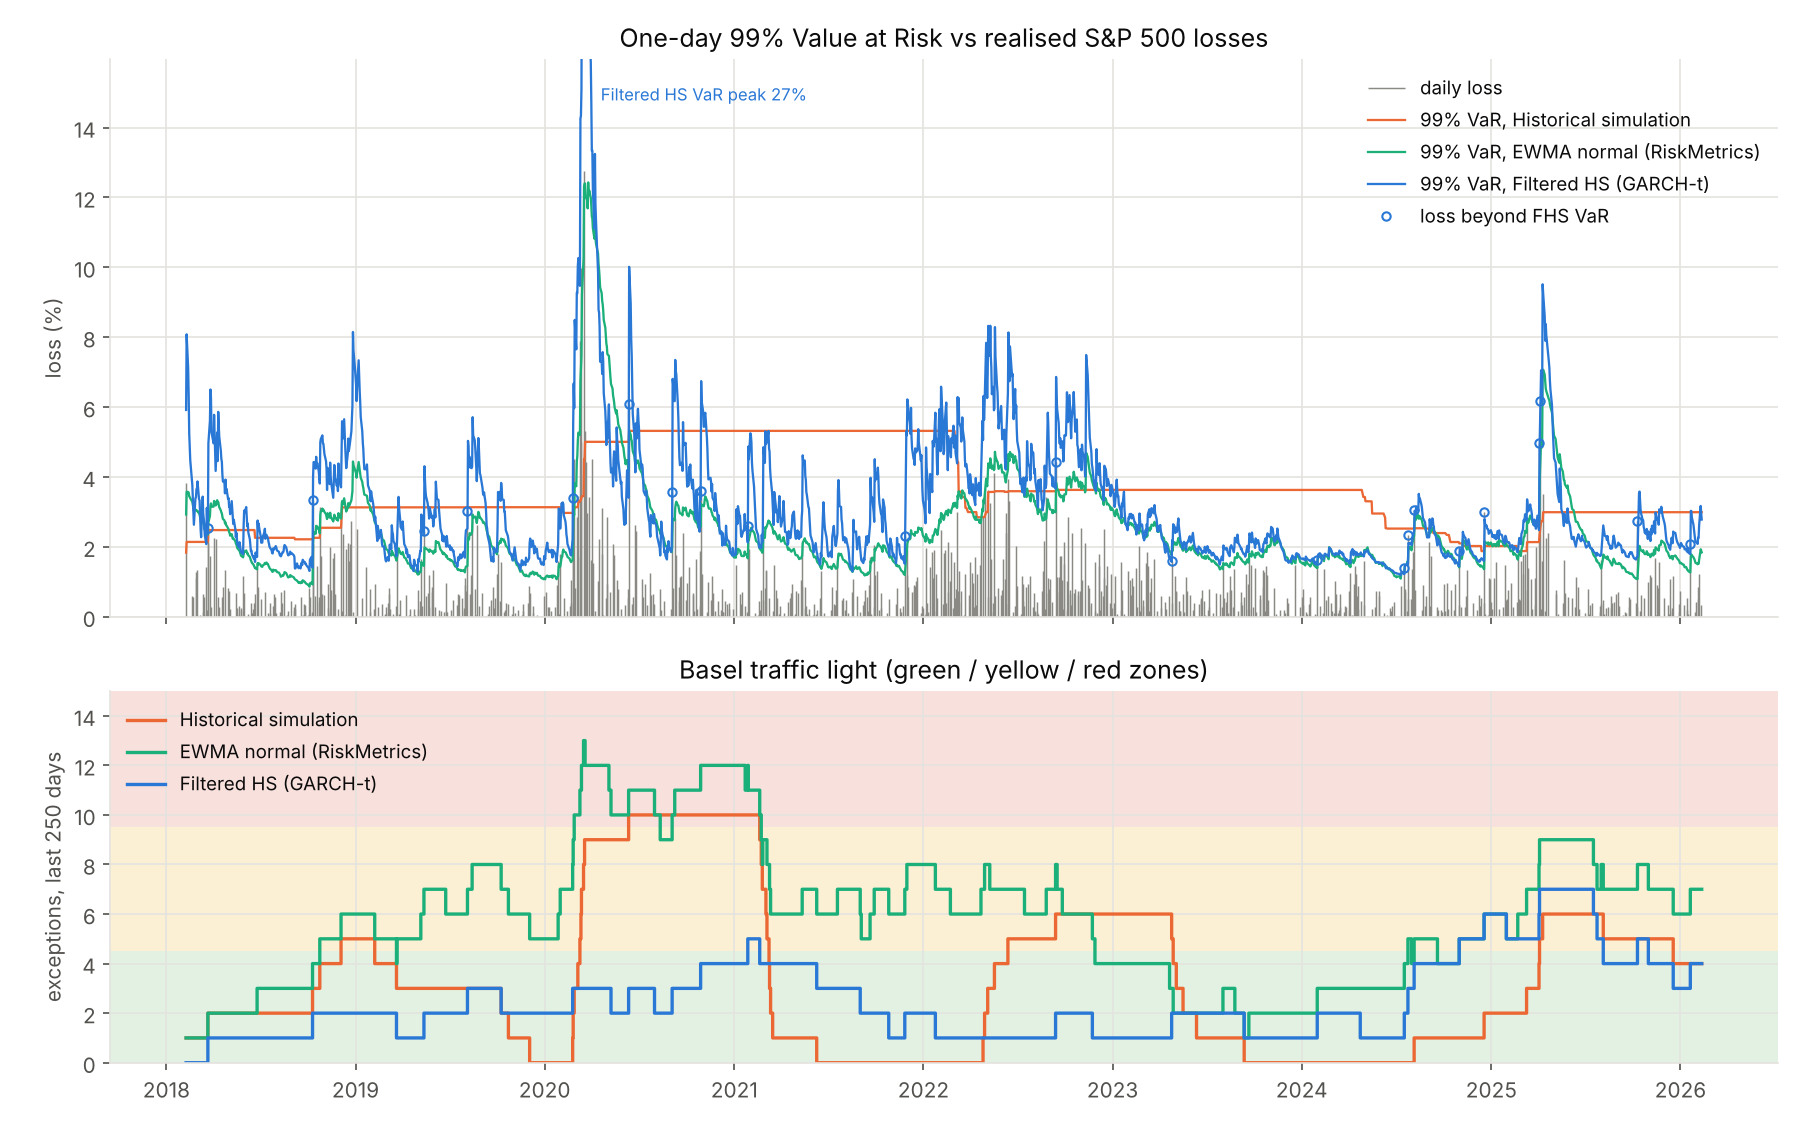
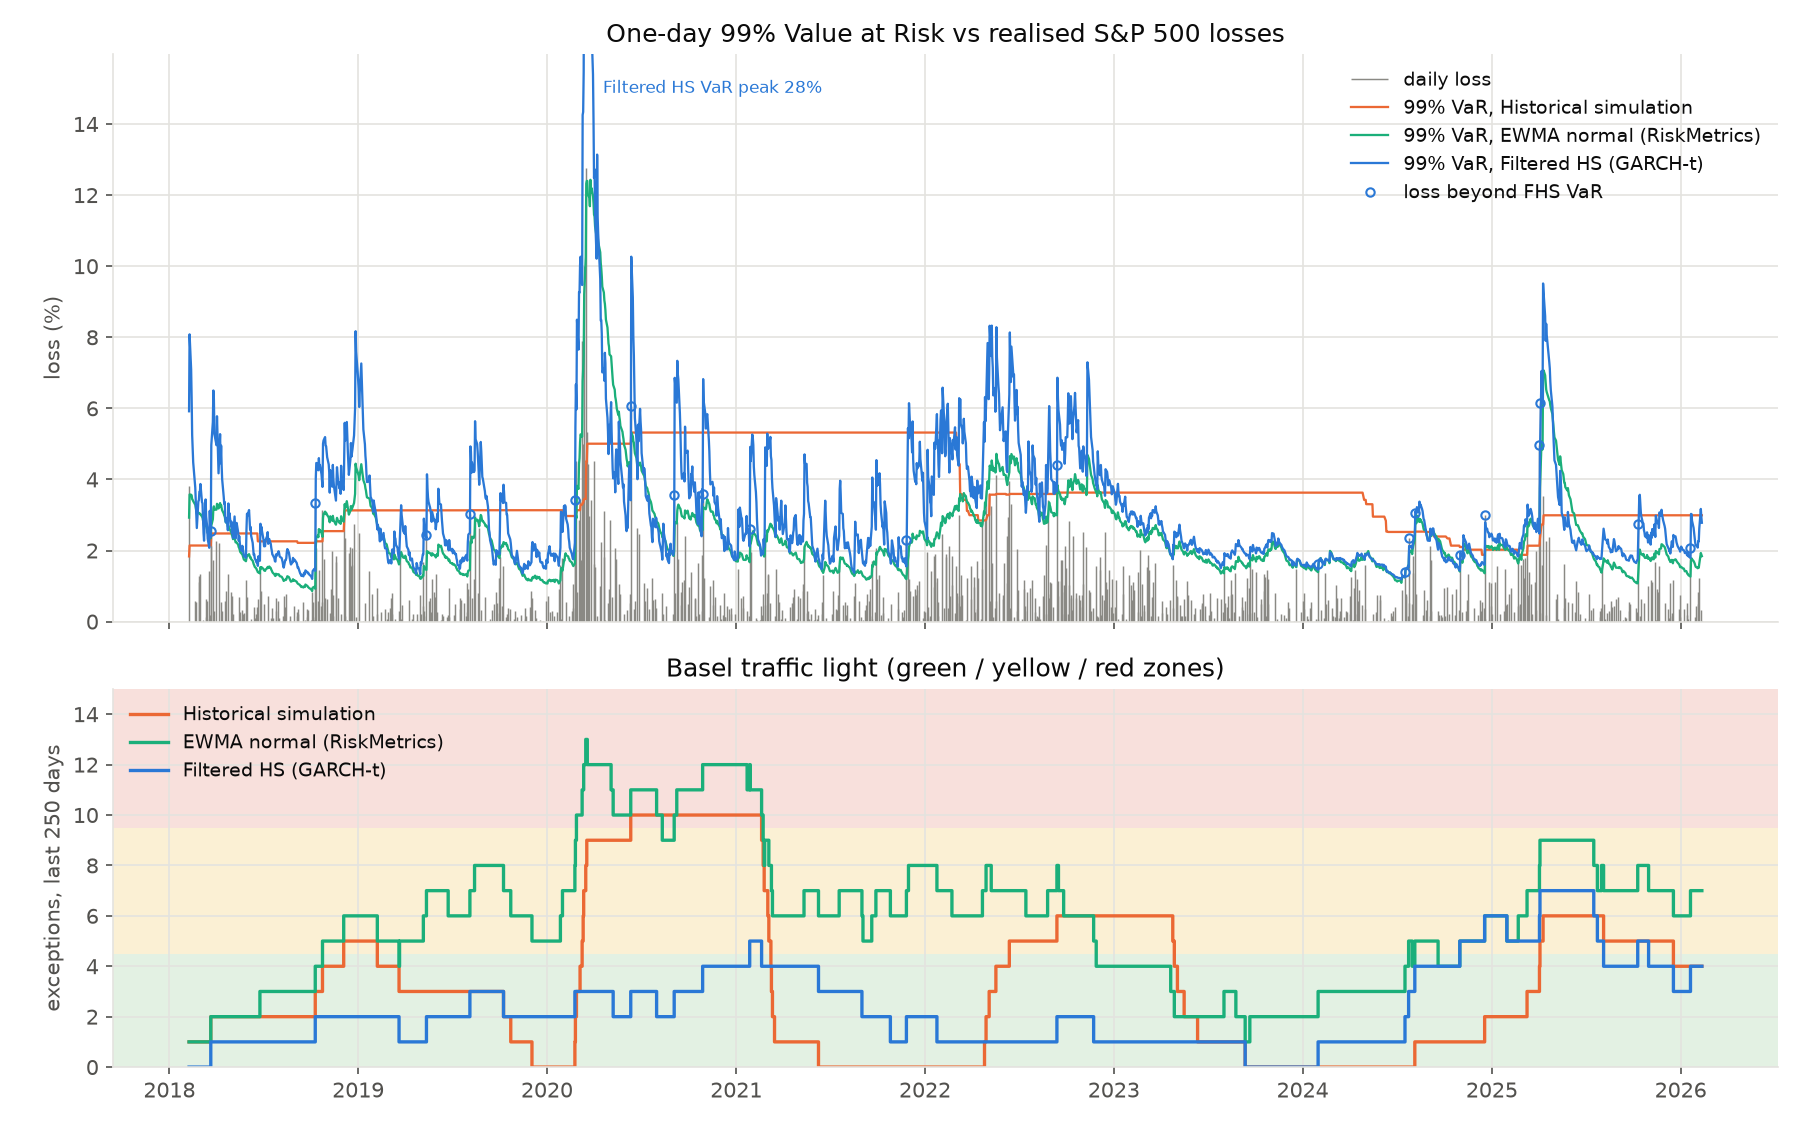
Fix GARCH-t MLE convergence; add 1990-2026 long-history backtest
The penalty wall at a+b = 0.999 stalled L-BFGS-B: 65 of 96 FRED refits
ended >0.1 log-lik short of the optimum (worst 6.2), so FHS results
differed between machines. Fit persistence and alpha share as box-bounded
parameters on standardized returns; every refit now within 0.03. New test
checks the fit against a long Nelder-Mead search on real windows.

FRED 2018-2026 FHS: 21 exceptions, Kupiec 0.847, Christoffersen 0.216,
Z2 p 0.122 (still passes). Yahoo ^GSPC 1991-2026, 8,763 days: HS and EWMA
fail; FHS passes Kupiec (0.194) and Z2 (0.077) but fails Christoffersen
(0.007). Chart legend moves left when a clipped VaR peak is on the right.

diff --git a/varbt/core.py b/varbt/core.py
@@ -28,22 +28,23 @@ def garch_variance(e, omega, a, b, v0):
 
 
 def garch_fit(r):
-    """MLE of r = mu + sigma z, z ~ unit-variance Student-t. Returns (mu, omega, a, b, nu)."""
-    v0 = r.var()
+    """MLE of r = mu + sigma z, z ~ unit-variance Student-t. Returns (mu, omega, a, b, nu).
+    Fitted on r / sd with a = pers * share, b = pers * (1 - share), so stationarity is a plain box
+    bound: a penalty wall at a + b = 0.999 used to stall L-BFGS-B up to 6 log-lik units short (measured)."""
+    sd = r.std()
+    y = r / sd
 
     def nll(p):
-        mu, lw, a, b, nu = p
-        if a + b >= 0.999:
-            return 1e10
-        e = r - mu
-        s2 = garch_variance(e, np.exp(lw), a, b, v0)[:-1]
+        mu, lw, pers, share, nu = p
+        e = y - mu
+        s2 = garch_variance(e, np.exp(lw), pers * share, pers * (1 - share), 1.0)[:-1]
         k = np.sqrt(nu / (nu - 2))
         return -np.sum(student_t.logpdf(e / np.sqrt(s2) * k, nu) + np.log(k) - 0.5 * np.log(s2))
 
-    x0 = [r.mean(), np.log(v0 * 0.05), 0.08, 0.88, 6.0]
-    bounds = [(-0.01, 0.01), (np.log(v0) - 12, np.log(v0)), (1e-4, 0.5), (0.0, 0.998), (2.1, 50)]
-    p = minimize(nll, x0, method="L-BFGS-B", bounds=bounds).x
-    return p[0], np.exp(p[1]), p[2], p[3], p[4]
+    x0 = [y.mean(), np.log(0.05), 0.96, 0.08, 6.0]
+    bounds = [(-0.01 / sd, 0.01 / sd), (-12, 0), (0.0, 0.998), (1e-4, 1.0), (2.1, 50)]
+    mu, lw, pers, share, nu = minimize(nll, x0, method="L-BFGS-B", bounds=bounds).x
+    return mu * sd, np.exp(lw) * sd ** 2, pers * share, pers * (1 - share), nu
 
 
 # ---------- rolling forecasts ----------

diff --git a/tests/test_varbt.py b/tests/test_varbt.py
@@ -29,6 +29,32 @@ def test_garch_mle_recovers_parameters():
         assert 3.5 < nu < 7.5, nu
 
 
+def test_garch_mle_reaches_optimum_on_real_windows():
+    # Windows where a+b sits near 0.999: the old penalty-wall fit stalled 3-6 log-lik units short.
+    # Known answer: a long Nelder-Mead search on the textbook likelihood can't beat garch_fit.
+    from scipy.optimize import minimize
+    from scipy.stats import t as student_t
+    r = load_csv(DATA).values
+
+    def nll(p, x):
+        mu, lw, a, b, nu = p
+        if a < 0 or b < 0 or a + b >= 0.999 or not 2.1 <= nu <= 50:
+            return 1e10
+        e = x - mu
+        s2 = garch_variance(e, np.exp(lw), a, b, x.var())[:-1]
+        k = np.sqrt(nu / (nu - 2))
+        return -np.sum(student_t.logpdf(e / np.sqrt(s2) * k, nu) + np.log(k) - 0.5 * np.log(s2))
+
+    for t0 in (1949, 1991, 2033):
+        x = r[t0 - 500:t0]
+        mu, omega, a, b, nu = garch_fit(x)
+        p = [mu, np.log(omega), a, b, nu]
+        best = min(minimize(nll, x0, args=(x,), method="Nelder-Mead",
+                            options={"maxiter": 20000, "xatol": 1e-9, "fatol": 1e-11}).fun
+                   for x0 in (p, [x.mean(), np.log(x.var() * 0.02), 0.15, 0.83, 5.0]))
+        assert nll(p, x) - best < 0.05, (t0, nll(p, x), best)
+
+
 def test_normal_var_es_match_basel_constants():
     # Basel's FRTB swap of 99% VaR for 97.5% ES: under normality 2.326 sigma vs 2.338 sigma.
     f = forecast(np.random.default_rng(0).standard_normal(600) * 0.01, model="ewma")

diff --git a/varbt/__main__.py b/varbt/__main__.py
@@ -45,13 +45,15 @@ def plot(r, res, out):
     fb = res["fhs"][1]["hits"]
     a1.plot(t[fb], loss[fb], "o", ms=4, mfc="none", mec=COLOR["fhs"], label="loss beyond FHS VaR")
     top = loss.max() * 1.25
+    peak_right = False
     for m, (f, b) in res.items():  # label any VaR peak cut off by the axis
         i = int(np.argmax(f["var99"]))
         if f["var99"][i] * 100 > top:
             a1.annotate(f"{MODELS[m].split(' (')[0]} VaR peak {f['var99'][i] * 100:.0f}%", (t[i], top * 0.97),
                         xytext=(8, -4), textcoords="offset points", fontsize=8, color=COLOR[m], va="top")
+            peak_right |= i > len(t) / 2
     a1.set(ylabel="loss (%)", title="One-day 99% Value at Risk vs realised S&P 500 losses", ylim=(0, top))
-    a1.legend(frameon=False, fontsize=9, loc="upper right")
+    a1.legend(frameon=False, fontsize=9, loc="upper left" if peak_right else "upper right")
 
     g, y = traffic_light_limits()
     a2.axhspan(-0.5, g + 0.5, color="#e3f1e3", lw=0)

diff --git a/README.md b/README.md
@@ -8,13 +8,29 @@
 |---|---|---|---|---|---|---|
 | Historical simulation | 27 | 0.144 | **0.004** | **10, red** (to 2020-06) | **0.000** | 3.59% |
 | EWMA normal (RiskMetrics) | **50** | **0.000** | 0.504 | **13, red** (to 2020-03) | **0.000** | 2.47% |
-| Filtered HS (GARCH-t) | 22 | 0.680 | 0.239 | 7, yellow (to 2025-04) | 0.174 | 3.18% |
+| Filtered HS (GARCH-t) | 21 | 0.847 | 0.216 | 7, yellow (to 2025-04) | 0.122 | 3.15% |
 
 *p < 0.05 rejects the model. 2,013 trading days, 2018-02-08 to 2026-02-11.*
 
 - **Historical simulation** gets the overall count right, which is why banks like it, but its exceptions arrive in clusters (Christoffersen rejects). It reacted to COVID only after the losses had happened and reached the Basel **red zone**.
 - **EWMA normal** reacts fast, so its exceptions don't cluster, but normal tails are far too thin: **2.5×** the expected exceptions.
-- **Filtered historical simulation** passes every test. It also holds **less** risk on average than historical simulation (3.18% vs 3.59%): it raises VaR when volatility rises and lowers it in calm markets, instead of carrying a 2-year-old crash for 2 years.
+- **Filtered historical simulation** passes every test here. It also holds **less** risk on average than historical simulation (3.15% vs 3.59%): it raises VaR when volatility rises and lowers it in calm markets, instead of carrying a 2-year-old crash for 2 years. Over 1991–2026 it fails the clustering test ([below](#long-history-1990today)).
+
+## Long history (1990–today)
+
+`python -m varbt --ticker ^GSPC` (Yahoo Finance, run 2026-10-15): 8,763 backtest days, 1991-12-24 to 2026-10-14, covering 1997–98, 2000–02, **2008**, 2011, 2020 and 2025.
+
+![VaR backtest on the S&P 500, 1991-2026](var_1990.png)
+
+| Model | 99% VaR exceptions (expected 87.6) | Kupiec p | Christoffersen p | Worst 250 days (Basel) | ES Z2 p | Average VaR |
+|---|---|---|---|---|---|---|
+| Historical simulation | 114 | **0.007** | **0.000** | **18, red** (to 2008-12) | **0.000** | 3.05% |
+| EWMA normal (RiskMetrics) | **189** | **0.000** | **0.004** | **13, red** (to 2007-11) | **0.000** | 2.30% |
+| Filtered HS (GARCH-t) | 100 | 0.194 | **0.007** | 8, yellow (to 2007-11) | 0.077 | 2.74% |
+
+- **HS and EWMA still fail.** HS now fails the exception count too, and 2008 puts it at 18 exceptions in 250 days, deep in the red zone. EWMA has 2.2× the expected exceptions and now also fails Christoffersen.
+- **FHS fails Christoffersen.** It gets the count right, never reaches red, and its ES passes, but it has 5 back-to-back exceptions (1993, 1994, 2015, 2018, 2025) where about 1 is expected. At 8,763 days the test is no longer oversized (see Validation), so this is a real rejection, consistent with the GARCH filter reacting a day late to sudden volatility jumps. The original optimizer (see Validation) fails it too (p = 0.039).
+- In 2018–2026 FHS had only 1 back-to-back exception. Eight years is too short to see the clustering that 35 years shows.
 
 ## Method
 
@@ -37,12 +53,13 @@
 
 ## Validation
 
-`python tests/test_varbt.py` (or `python -m pytest`), 10 tests, about a minute. Every test checks against a known answer.
+`python tests/test_varbt.py` (or `python -m pytest`), 11 tests, about 25 seconds (longer on the first, cold run). Every test checks against a known answer.
 
 | Check | Result |
 |---|---|
 | GARCH variance filter vs plain recursion | equal to 1e-18 |
 | GARCH-t MLE on simulated data (true α 0.10, β 0.88, ν 5) | recovers α+β within 0.015, ν within 3.5–7.5 |
+| GARCH-t MLE on real windows with α+β near 1 | within 0.05 log-lik of a long Nelder-Mead search |
 | Normal 97.5% ES vs 99% VaR | 2.338σ vs 2.326σ, the Basel FRTB equivalence |
 | Kupiec statistic vs binomial likelihood ratio | exact |
 | Test size under a correct model | Kupiec ≈ 5.7%, Christoffersen ≈ 5%, Z2 ≈ 5.7% (target 5%) |
@@ -50,9 +67,11 @@
 | Basel zones from the binomial | green ≤ 4, red ≥ 10, matching the 1996 Basel table |
 | **Known truth:** data simulated from GARCH-t, 6 seeds | FHS passes all tests on all 6; EWMA fails Kupiec on ≥ 4; HS fails Christoffersen on ≥ 3 |
 | **Real data:** S&P 500 2018–2026 | results in the table above |
+| **Real data:** S&P 500 1991–2026 (Yahoo) | [Long history](#long-history-1990today) |
 
-Two findings from building it:
+Three findings from building it:
 - **Quantile rule matters.** NumPy's default quantile puts the 1% point of 500 scenarios about 20% too far into the body: on simulated data with a known answer, historical models broke VaR 36 times instead of ~25. The engine uses the k/(n+1) plotting position (`method="weibull"`), which fixed most of the gap.
+- **The GARCH fit must reach the optimum.** The first version enforced α+β < 0.999 with a penalty wall. L-BFGS-B stalled against it: on the FRED data 65 of 96 refits ended more than 0.1 log-likelihood units short of the optimum (worst 6.2), and the same code gave different FHS results on two machines (ES Z2 p 0.174 vs 0.122). Fitting persistence α+β and α's share of it as box-bounded parameters on standardized returns brings every refit within 0.03 units.
 - **Christoffersen's test is oversized in short samples:** 8% rejections instead of 5% at 1,000 days with 5% hits, converging to 5% by 5,000 days (measured). Treat borderline p-values with care.
 
 ## Run
@@ -68,8 +87,8 @@ Prints the table above and saves `var.png`.
 ## Limits
 
 - **One asset, long only.** A portfolio needs a joint model (e.g. filtered HS on several assets with a correlation model).
-- **FHS overreacts after shocks.** Its 99% VaR peaked at 27% in March 2020, when the worst daily loss was 12.8%. That conservatism is part of why it passes; a desk would also judge it on how much capital it ties up during a crisis.
-- **The bundled data has no 2008.** FRED publishes 10 years of the S&P 500 index for free. `--ticker ^GSPC` adds 1990 onward, including 2008.
+- **FHS overreacts after shocks.** Its 99% VaR peaked at 28% in March 2020, when the worst daily loss was 12.8%. That conservatism is part of why it passes; a desk would also judge it on how much capital it ties up during a crisis.
+- **The bundled data has no 2008.** FRED publishes 10 years of the S&P 500 index for free. `--ticker ^GSPC` adds 1990 onward, including 2008 ([Long history](#long-history-1990today)); Yahoo data isn't bundled, so that table can drift slightly as Yahoo revises or extends its series.
 - **Price index, not total return.** Dividends are ignored: under 0.01% a day, small next to 1-day risk. Returns and losses are daily log returns.
 
 Data: S&P 500 daily close from FRED via the open [datasets/s-and-p-500](https://github.com/datasets/s-and-p-500) project (ODC-PDDL); see [`tests/data`](tests/data).
